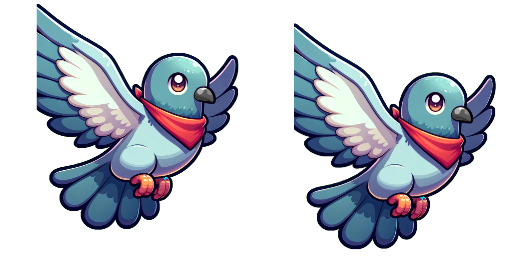
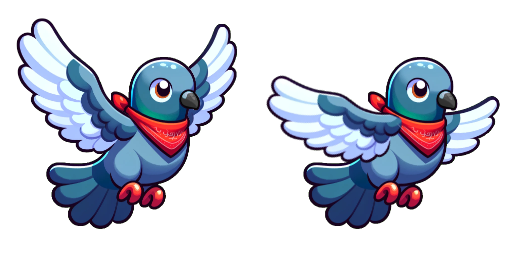
feat: improve flying animation

diff --git a/src/scenes/TitleScene.ts b/src/scenes/TitleScene.ts
@@ -1,5 +1,42 @@
 import Phaser from 'phaser';
 
+function drawBackground(scene: Phaser.Scene) {
+  scene.add.image(scene.cameras.main.centerX, scene.cameras.main.centerY, 'title');
+}
+
+function createButton(scene: Phaser.Scene) {
+  const button = scene.add.sprite(0, 0, 'startButton').setInteractive();
+  button.on('pointerdown', () => scene.scene.start('Game'));
+  button.on('pointerover', () => button.setFrame(1));
+  button.on('pointerout', () => button.setFrame(0));
+  return button;
+}
+
+function createButtonText(scene: Phaser.Scene) {
+  return scene.add.text(-90, -35, 'Start', {
+    fontSize: '64px',
+    color: '#2B243E',
+  });
+}
+
+function createStartButton(scene: Phaser.Scene) {
+  const width = scene.cameras.main.width;
+  const button = createButton(scene);
+  const text = createButtonText(scene);
+  return scene.add.container(width / 2, 1100, [button, text]);
+}
+
+function addTween(scene: Phaser.Scene, target: Phaser.GameObjects.Container) {
+  scene.tweens.add({
+    targets: target,
+    y: '+=4',
+    duration: 800,
+    ease: 'Sine.inOut',
+    yoyo: true,
+    repeat: -1,
+  });
+}
+
 export default class TitleScene extends Phaser.Scene {
   constructor() {
     super({ key: 'Title' });
@@ -8,42 +45,7 @@ export default class TitleScene extends Phaser.Scene {
   create() {
     this.input.enabled = true;
     drawBackground(this);
-    const button = addStartButton(this);
-    // Add a bounce effect to the restart button
-    this.tweens.add({
-      targets: button,
-      y: '+=4',
-      duration: 800,
-      ease: 'Sine.inOut',
-      yoyo: true,
-      repeat: -1,
-    });
-
-    function drawBackground(scene: Phaser.Scene) {
-      scene.add.image(scene.cameras.main.centerX, scene.cameras.main.centerY, 'title');
-    }
-
-    function addStartButton(scene: Phaser.Scene) {
-      const width = scene.cameras.main.width;
-      const button = scene.add.sprite(0, 0, 'startButton').setInteractive();
-      const text = scene.add.text(-90, -35, 'Start', {
-        fontSize: '64px',
-        color: '#2B243E',
-      });
-      button.on('pointerdown', () => {
-        scene.scene.start('Game');
-      });
-      button.on('pointerover', () => {
-        button.setFrame(1);
-      });
-
-      button.on('pointerout', () => {
-        button.setFrame(0);
-      });
-
-      const container = scene.add.container(width / 2, 1100, [button, text]);
-
-      return container;
-    }
+    const button = createStartButton(this);
+    addTween(this, button);
   }
 }

diff --git a/src/lib/Pigeon.ts b/src/lib/Pigeon.ts
@@ -13,7 +13,17 @@ export class Pigeon extends Phaser.GameObjects.Sprite {
   }
 
   update(): void {
-    this.anims.play('fly', true);
+    // If pigeon is moving upwards, play fly animation
+    if (this.body.velocity.y < 0) {
+      this.anims.play('fly', true);
+    } else {
+      const framesLength = this.anims.currentAnim ? this.anims.currentAnim.frames.length : 0;
+      this.anims.stop();
+      if (framesLength > 0) {
+        this.setFrame(framesLength - 1);
+      }
+    }
+
     // If pigeon reaches the bottom of the screen, emit 'dead' and stop moving
     if (this.y >= (this.scene.sys.game.config.height as number) - this.displayHeight / 2) {
       this.emit('dead');

diff --git a/src/scenes/Game.ts b/src/scenes/Game.ts
@@ -1,4 +1,3 @@
-import { ExtendedPhaserGame } from '../types/ExtendedPhaserGame';
 import Phaser from 'phaser';
 import { Pigeon } from '../lib/Pigeon';
 
